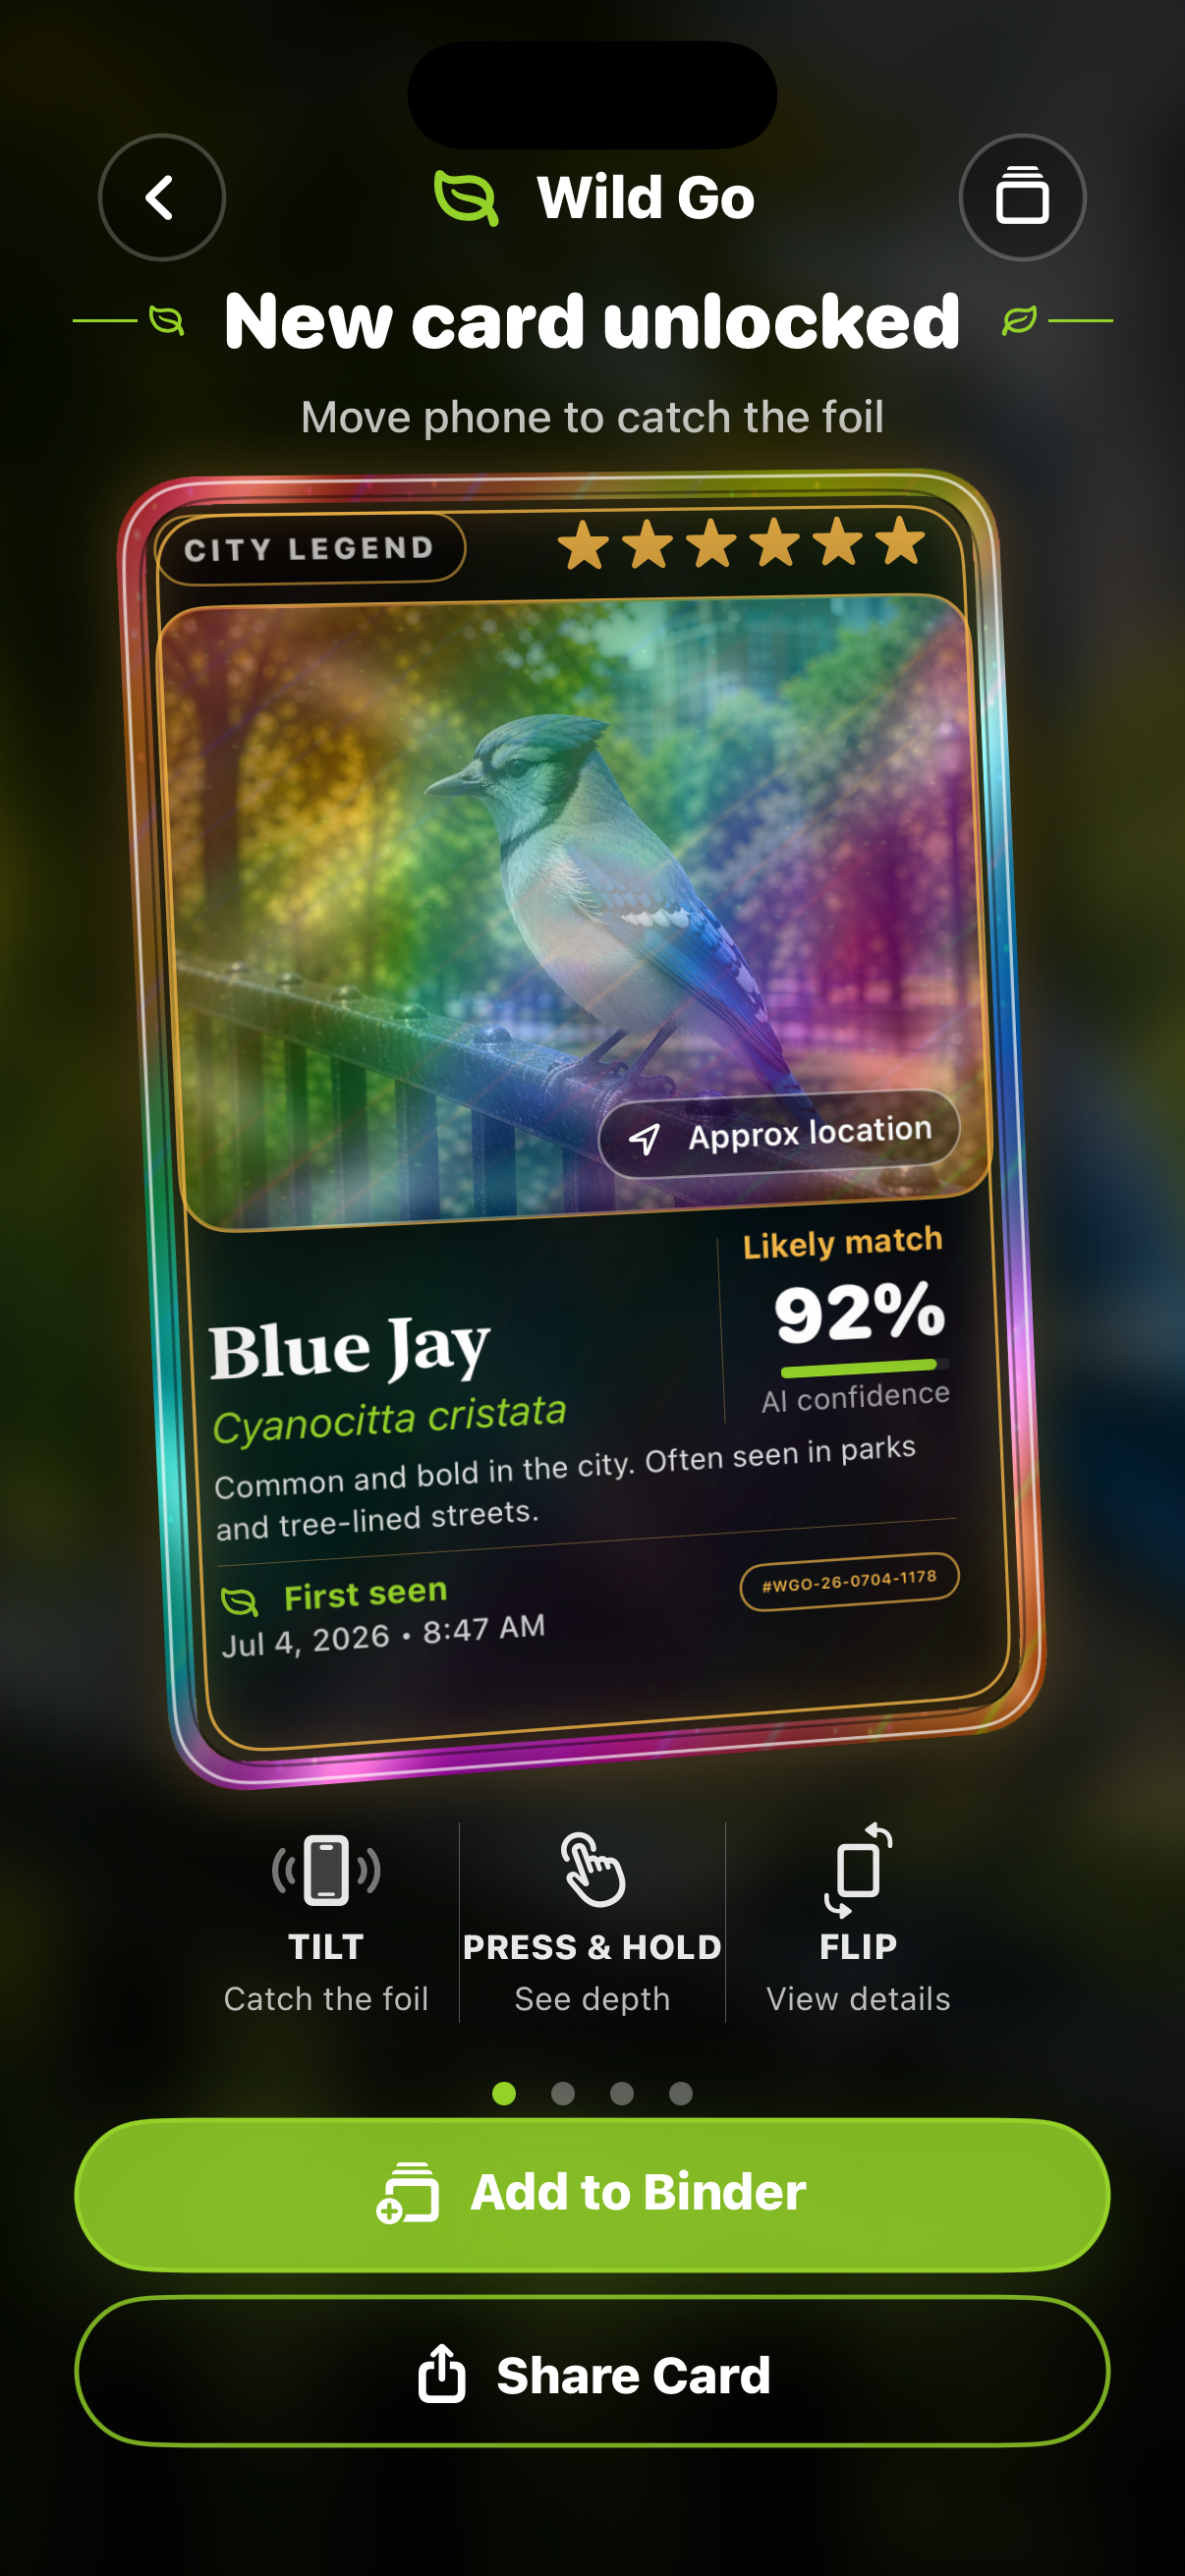
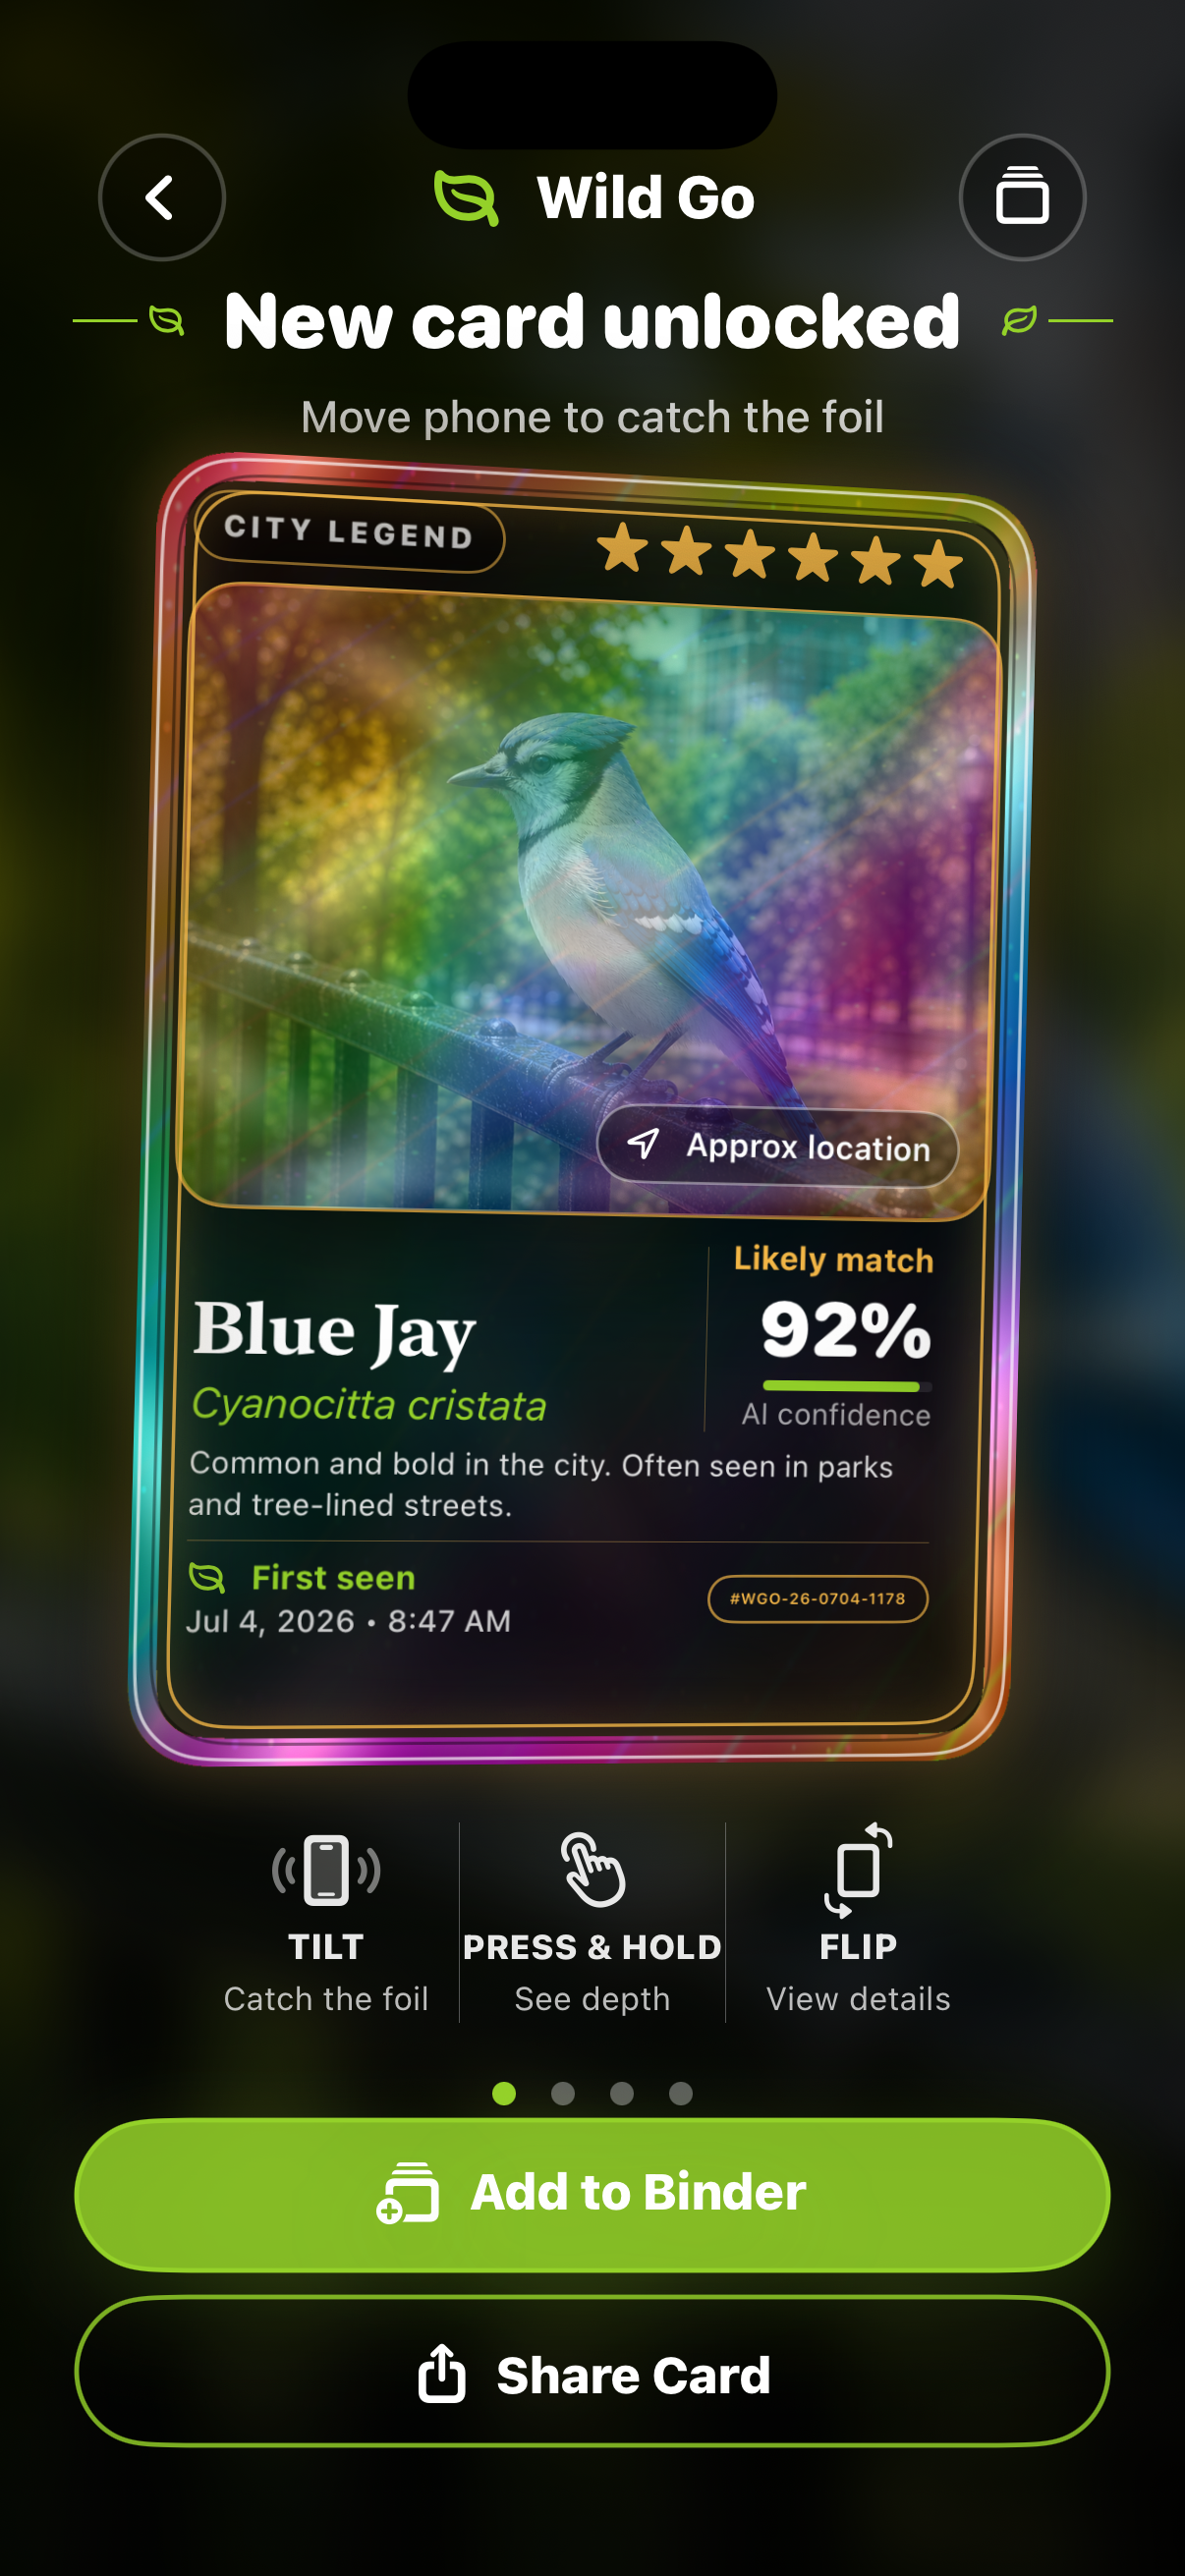
Match capture card resting angle

Changed region(s): [[0.092, 0.1545, 0.8897, 0.7105]]

diff --git a/ios/App/App/AppDelegate.swift b/ios/App/App/AppDelegate.swift
@@ -2530,7 +2530,7 @@ struct CaptureCardStage: View {
                 .rotation3DEffect(.degrees(isFlipped ? 0 : 180), axis: (x: 0, y: 1, z: 0), perspective: 0.62)
         }
         .frame(width: cardWidth, height: 472)
-        .rotationEffect(.degrees(isFlipped ? 1.4 : -2.5))
+        .rotationEffect(.degrees(1.4))
         .rotation3DEffect(
             .degrees((isDepthPreviewing ? 13 : 6) + Double(dragTranslation.width / 22)),
             axis: (

diff --git a/HANDOFF.md b/HANDOFF.md
@@ -6,11 +6,12 @@
 - GitHub PR: <https://github.com/yx3728/wild-go-mvp/pull/1>
 - Native stack is SwiftUI + SwiftData + AVFoundation + MapKit + PhotosUI + CoreLocation. Supabase/Postgres/Storage/Edge Functions remain the cloud backend, with cloud species recognition first and Vision/Core ML fallback wired for a later trained model.
 - Card materials now use the MIT-licensed ShaderKit package pinned exactly to `1.2.4`. One shared implementation covers all six levels: matte steel, colored alloy, crosshatched silver, iridescent pearl, inverted foil, and rainbow holo.
-- Capture retains drag-responsive shader tilt, press-and-hold depth, independent front/back flip, and four-card swipe pagination. All five real-coordinate interaction suites passed after the ShaderKit migration.
+- Capture retains drag-responsive shader tilt, press-and-hold depth, independent front/back flip, and four-card swipe pagination. Its resting pose now uses the concept's slight clockwise `1.4` degree angle instead of the previous counter-clockwise angle, improving thumbnail geometry from `0.831` to `0.837` without changing gesture behavior.
 - Binder's current grid was compacted to match the concept's vertical rhythm: the board is `468` pt tall instead of `529`, feature cards are `276`/`268` pt, and the four supporting cards are `164` pt. The six-level rarity guide is `74` pt tall, and the reference-style single-line Tilt/Binder Tips row now renders completely above the bottom navigation without dropping card names, rarity, confidence, locality, or dates.
 - Current material QA references are `qa-shots/swiftui-native-capture-shaderkit-v1.png` and `qa-shots/swiftui-native-binder-shaderkit-rarity-v1.png`.
-- The July 13 Friends/Profile geometry pass fixed the three viewport defects found against `friends-showcase-stack.png`: the second Friend Activity row's locality/date line no longer hides behind the action rail, the hero showcase card no longer overlaps the "Drag to showcase" pill, and the white Profile bottom bar now uses the concept's "Collection" label. Friends concept fidelity rose from `0.778` to `0.801` (tracked as `swiftui-native-friends-profile-v17.png` with raised gates). Capture and Binder tracked references were refreshed from the current ShaderKit build (capture composite `0.780`, Binder composite `0.831` with vertical-band similarity improved from `0.954` to `0.956`) while prioritizing UI geometry over source-image similarity.
+- The July 13 Friends/Profile geometry pass fixed the three viewport defects found against `friends-showcase-stack.png`: the second Friend Activity row's locality/date line no longer hides behind the action rail, the hero showcase card no longer overlaps the "Drag to showcase" pill, and the white Profile bottom bar now uses the concept's "Collection" label. The layout-weighted concept scores are Capture `0.816`, Binder `0.855`, and Friends `0.814`; Binder vertical-band similarity improved from `0.954` to `0.956` and Capture's spatial thumbnail score improved to `0.837`.
 - The full July 13 real-coordinate pass is green across navigation, Map, Capture, Binder, and Profile. The Profile action-rail taps were recalibrated from `0.83` to `0.85` of the Simulator display after the latest viewport compaction, and every asserted action now reaches its intended control.
+- After the Capture resting-angle change, the Simulator build, fresh screenshot, native visual gate, static 37-event map, aggregate verification, and concept audit all pass. A fresh full coordinate rerun still needs an unlocked macOS session: the app and device booted, but both AppleScript and Computer Use confirmed that the locked desktop exposed no Simulator window to click. The last complete five-suite coordinate pass is commit `50df19f`.
 - Resume from here by configuring a live Supabase project, verifying AVFoundation on physical hardware, and training the local Core ML model with a labeled dataset. Source-image similarity is intentionally not the current optimization target.
 
 ## Project Summary
@@ -222,7 +223,7 @@ Browser checks covered:
 - `npm run supabase:test` covers the cloud-recognition backend contract without live secrets, including OpenAI output normalization for confidence percentages, out-of-range stars, tier/finish synonyms, missing notes, invalid JSON, base64/data URL decoding, private Storage path construction, path-segment sanitization, observation UUID validation, Supabase Auth bearer-token verification, and complete injected-fetch handler flows for success and downstream rollback.
 - Signed-in recognition now uses one observation UUID across SwiftData, private Storage, and Postgres, so pulling the account does not duplicate a newly captured card. Edge writes are idempotent and return an error when Storage or Postgres persistence fails; newly uploaded images are removed through the Storage API after OpenAI/output/Postgres failure, while a pre-existing signed-in card image is preserved on failed retry. Anonymous device-path cards are migrated to the signed-in user's private path on first sync.
 - `npm run goal:audit` performs a simulator-free static audit that the repo still contains the requested native iOS frameworks, SwiftData model container, AVFoundation capture path, MapKit/PhotosUI/CoreLocation usage, Supabase Postgres/Storage/RLS migration, OpenAI-backed Edge Function, Vision/Core ML fallback path, model-training tooling, concept references, native visual QA references, and the pinned ShaderKit package with all six rarity materials and current material QA references.
-- `npm run concept:audit` compares the tracked native Capture, Binder, and Friends/Profile reference screenshots against the original concept images with normalized thumbnail, color-histogram, and vertical-band similarity metrics, so future visual changes can prove whether they move closer to or farther from the concept art.
+- `npm run concept:audit` compares the tracked native Capture, Binder, and Friends/Profile reference screenshots against the original concept images. Its composite is intentionally layout-weighted (`55%` spatial thumbnail, `25%` vertical bands, `20%` color histogram), matching the current priority on UI hierarchy and geometry while retaining a lower color-drift guardrail for catastrophic palette regressions.
 - Friends Flip swaps the showcase card to its back, and Drag/Add to Showcase changes the visible showcase slot state.
 - Friends/Profile `v16` tightens the reference-style action rail so long labels fit, restores a visible trade/friends icon with a supported SF Symbol, and reduces the back-card typography so the small cards read as a physical stack instead of cropped posters.
 - Friends/Profile now separates that five-action rail from a four-item white bottom navigation like the concept. The white bar labels the binder destination "Collection" to match the reference. Its tracked `v17` score is composite `0.801`, thumbnail `0.786`, histogram `0.748`, and vertical bands `0.930`, with raised regression gates.